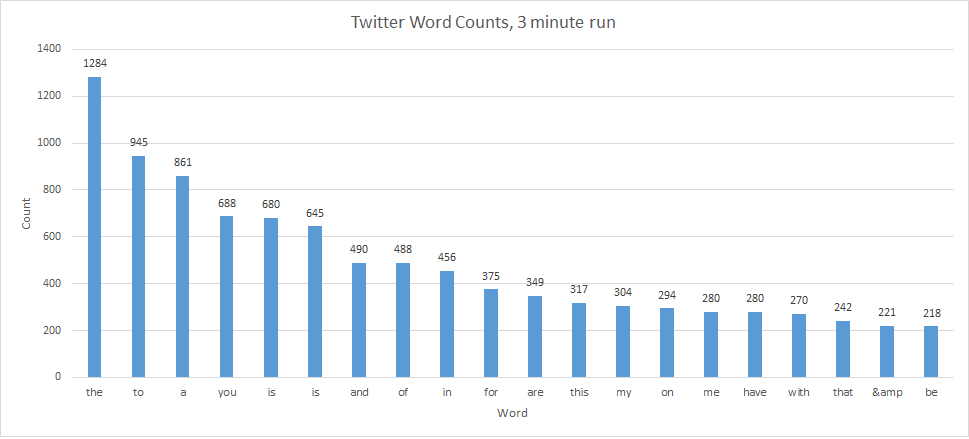
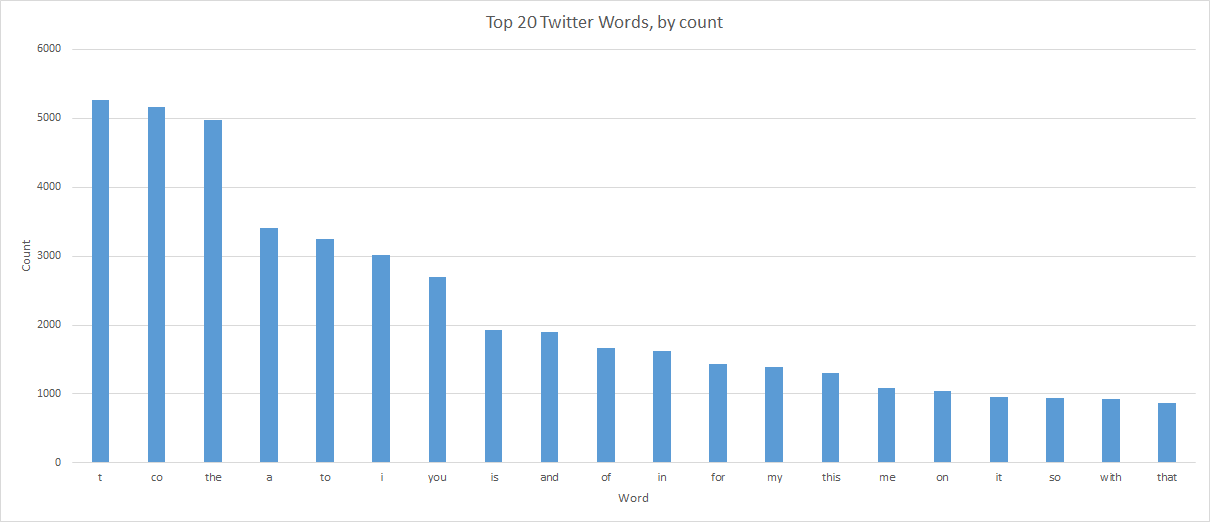
fixed small bug and added final plot

Changed region(s): [[0.0, 0.1777, 1.0, 1.0], [0.031, 0.0296, 0.9907, 0.1481]]

diff --git a/exercise_2/extweetwordcount/src/bolts/parse.py b/exercise_2/extweetwordcount/src/bolts/parse.py
@@ -14,8 +14,10 @@ class ParseTweet(Bolt):
     def process(self, tup):
         tweet = tup.values[0]  # extract the tweetn
 
-        # Split the tweet into words
-        words = re.split(r' |,|\.|;|\?|:|!|\(|\)|\[|\]|\n|\+|/|&', tweet.replace('&amp', '&').replace('&gt', '>').replace('&lt', '<'))
+        # Split the tweet into words and replace HTML characters
+        # with their ascii equivalent
+        words = re.split(r' |,|\.|;|\?|:|!|\(|\)|\[|\]|\n|\+|/|&',
+                         tweet.replace('&amp', '&').replace('&gt', '>').replace('&lt', '<'))
 
         # Filter out the hash tags, RT, @ and urls
         valid_words = []

diff --git a/exercise_2/extweetwordcount/src/bolts/wordcount.py b/exercise_2/extweetwordcount/src/bolts/wordcount.py
@@ -46,7 +46,7 @@ class WordCounter(Bolt):
                 if cursor.rowcount == 0:
                     cursor.execute("INSERT INTO tweetwordcount (word,count) VALUES (%(word)s, 1)",
                                    {'word': word})
-                    if cursor.worcount == 0:
+                    if cursor.rowcount == 0:
                         self.log('could not insert word {0} into database'.format(word), level='error')
 
         # Increment the local count
